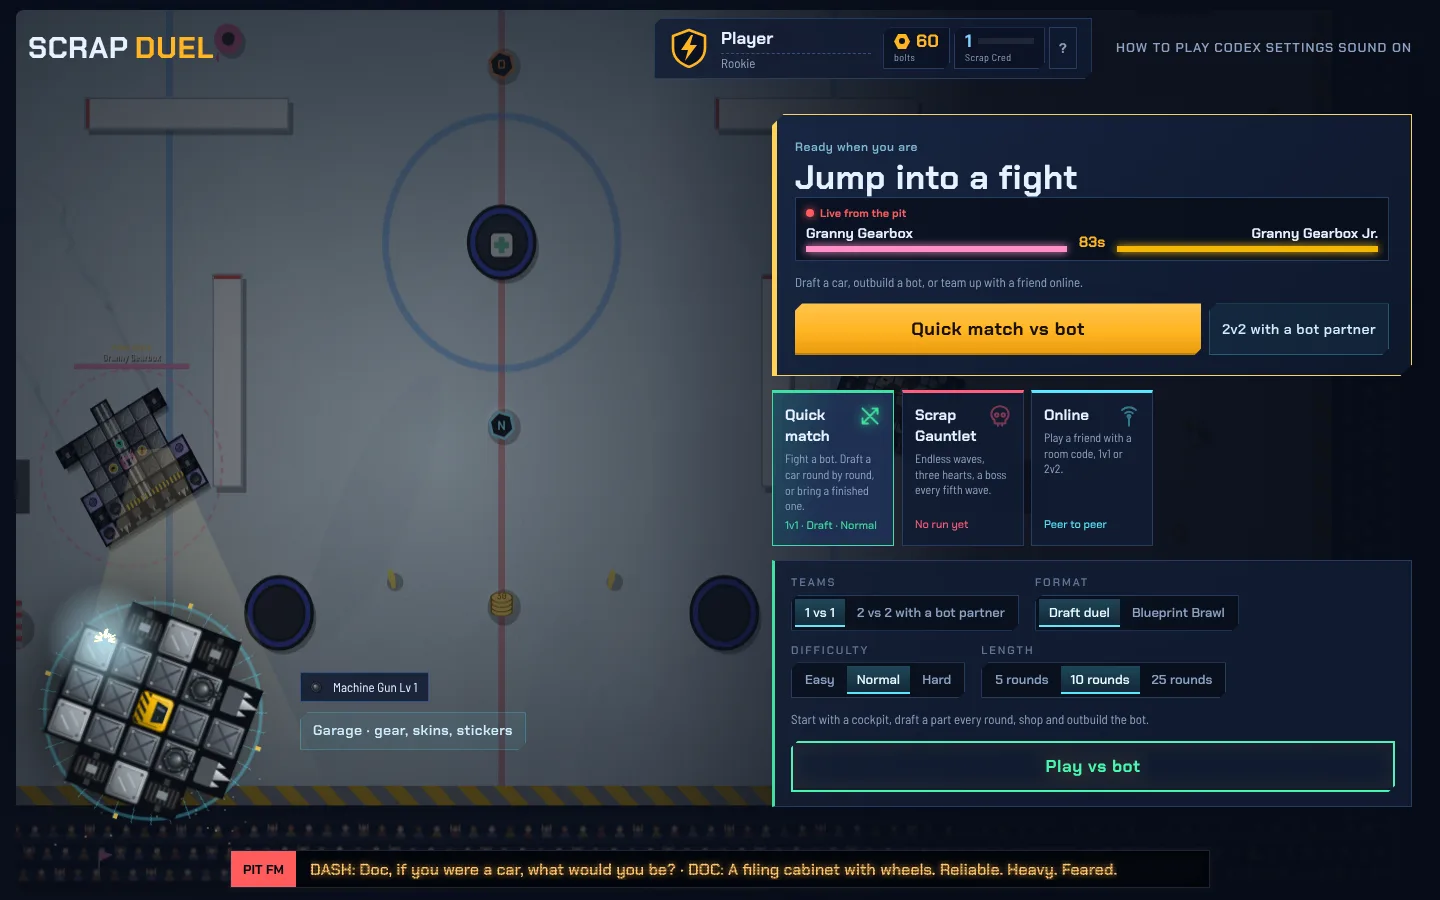
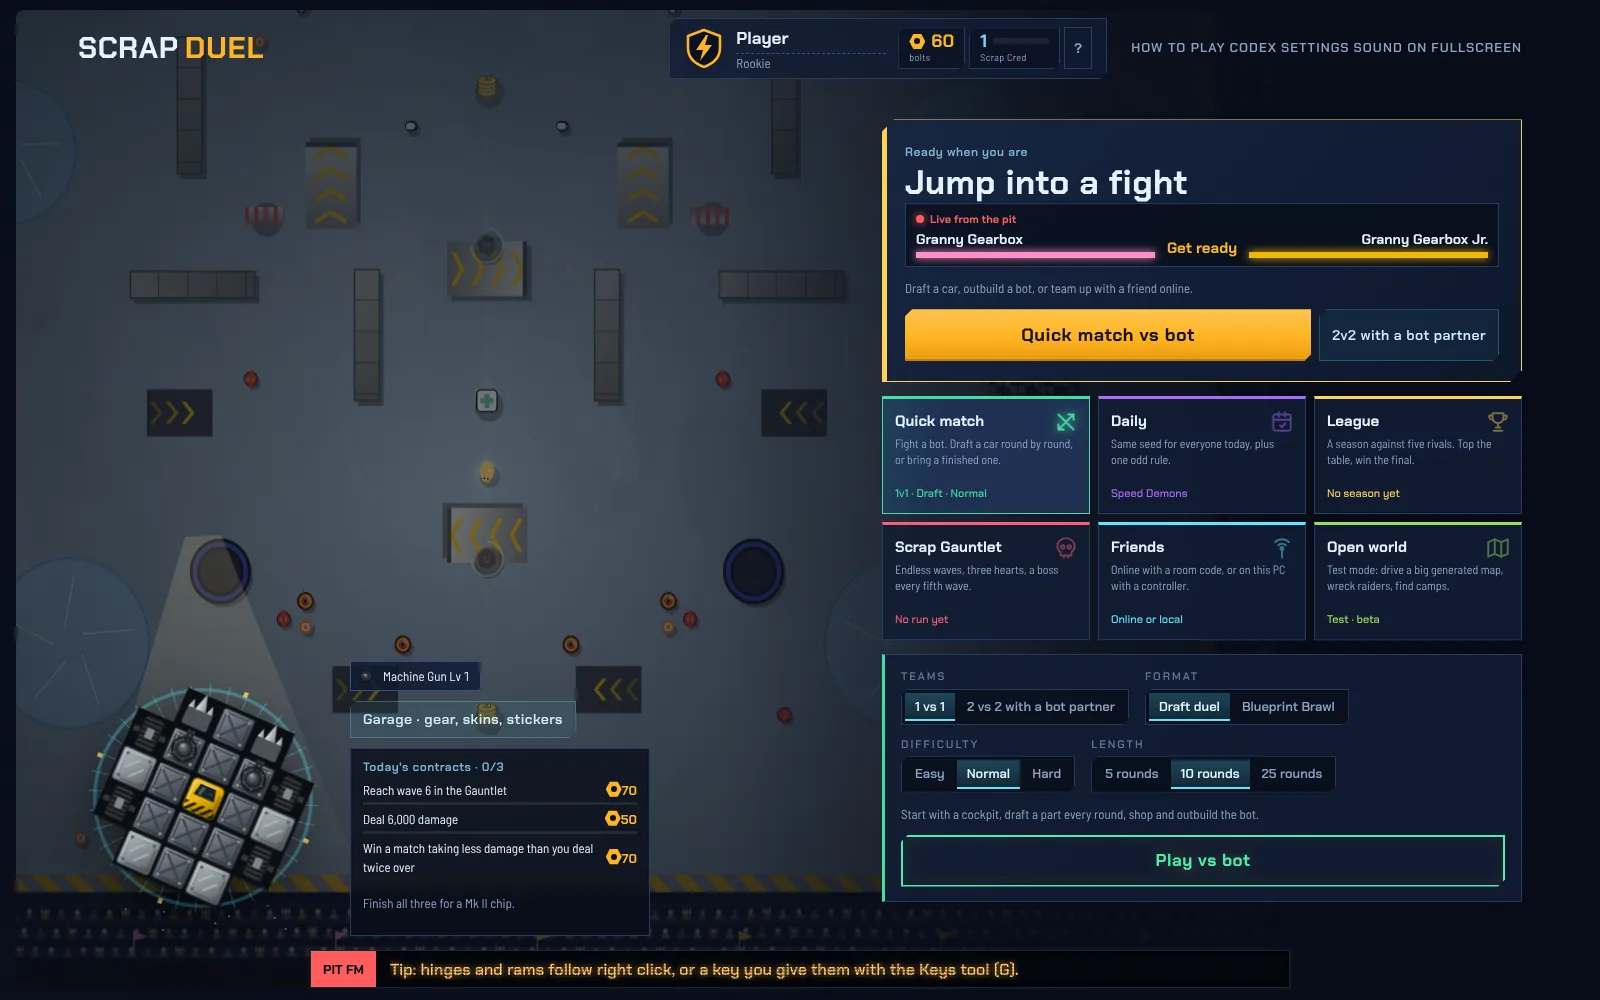
Website: open world section and screenshots, seven modes, assets load from a folder too; menu tile shows world progress
Claude-Session: https://claude.ai/code/session_01Wu6fysErEFwTaLUbbMP2sf

diff --git a/web/index.html b/web/index.html
@@ -11,31 +11,31 @@
     <meta name="theme-color" content="#0b1324" />
     <meta property="og:title" content="Scrap Duel" />
     <meta property="og:description" content="Build a battle car from scrap. Then wreck someone else's." />
-    <meta property="og:image" content="/img/battle.webp" />
-    <link rel="icon" href="/img/icon.svg" type="image/svg+xml" />
-    <link rel="preload" href="/fonts/chakra-petch-latin-700-normal.woff2" as="font" type="font/woff2" crossorigin />
+    <meta property="og:image" content="img/battle.webp" />
+    <link rel="icon" href="img/icon.svg" type="image/svg+xml" />
+    <link rel="preload" href="fonts/chakra-petch-latin-700-normal.woff2" as="font" type="font/woff2" crossorigin />
     <style>
       @font-face {
         font-family: 'Chakra Petch';
-        src: url('/fonts/chakra-petch-latin-700-normal.woff2') format('woff2');
+        src: url('fonts/chakra-petch-latin-700-normal.woff2') format('woff2');
         font-weight: 700;
         font-display: swap;
       }
       @font-face {
         font-family: 'Barlow Semi Condensed';
-        src: url('/fonts/barlow-semi-condensed-latin-400-normal.woff2') format('woff2');
+        src: url('fonts/barlow-semi-condensed-latin-400-normal.woff2') format('woff2');
         font-weight: 400;
         font-display: swap;
       }
       @font-face {
         font-family: 'Barlow Semi Condensed';
-        src: url('/fonts/barlow-semi-condensed-latin-500-normal.woff2') format('woff2');
+        src: url('fonts/barlow-semi-condensed-latin-500-normal.woff2') format('woff2');
         font-weight: 500;
         font-display: swap;
       }
       @font-face {
         font-family: 'Barlow Semi Condensed';
-        src: url('/fonts/barlow-semi-condensed-latin-600-normal.woff2') format('woff2');
+        src: url('fonts/barlow-semi-condensed-latin-600-normal.woff2') format('woff2');
         font-weight: 600;
         font-display: swap;
       }
@@ -443,6 +443,65 @@
         }
       }
 
+      /* open world */
+      .world .head {
+        max-width: 720px;
+      }
+      .world-grid {
+        display: grid;
+        grid-template-columns: minmax(0, 8fr) minmax(0, 4fr);
+        gap: 16px;
+      }
+      .world-grid .side {
+        display: grid;
+        gap: 16px;
+        align-content: start;
+      }
+      .world-grid .shot img {
+        width: 100%;
+        aspect-ratio: 16 / 10;
+        object-fit: cover;
+      }
+      .world-feats {
+        display: grid;
+        grid-template-columns: repeat(3, minmax(0, 1fr));
+        gap: 28px 40px;
+        margin: 48px 0 0;
+        padding: 0;
+        list-style: none;
+      }
+      .world-feats li {
+        border-top: 2px solid var(--line);
+        padding-top: 14px;
+        color: var(--steel);
+      }
+      .world-feats b {
+        display: block;
+        margin-bottom: 4px;
+        font: 700 20px/1.2 var(--display);
+        color: var(--paper);
+      }
+      .world-feats li:nth-child(-n + 3) {
+        border-top-color: var(--amber);
+      }
+      @media (max-width: 900px) {
+        .world-grid {
+          grid-template-columns: 1fr;
+        }
+        .world-grid .side {
+          grid-template-columns: 1fr 1fr;
+        }
+        .world-feats {
+          grid-template-columns: 1fr 1fr;
+        }
+      }
+      @media (max-width: 560px) {
+        .world-grid .side,
+        .world-feats {
+          grid-template-columns: 1fr;
+        }
+      }
+
       /* what's new */
       .news {
         display: grid;
@@ -606,8 +665,9 @@
   <body>
     <header class="top">
       <div class="wrap">
-        <a class="logo" href="#"><img src="/img/icon.svg" alt="" />SCRAP <b>DUEL</b></a>
+        <a class="logo" href="#"><img src="img/icon.svg" alt="" />SCRAP <b>DUEL</b></a>
         <nav aria-label="Sections">
+          <a href="#world">Open world</a>
           <a href="#how">How it plays</a>
           <a href="#modes">Modes</a>
           <a href="#new">What's new</a>
@@ -623,8 +683,8 @@
           <div>
             <h1>Build a battle car from scrap. Then wreck someone else's.</h1>
             <p class="lede">
-              Draft parts, bolt them onto a grid and drive what you made into a bot, a boss or a friend. Every round you
-              get new scrap and a chance to build something better.
+              Draft parts, bolt them onto a grid and drive what you made into a bot, a boss or a friend. Or take it out
+              into the open world and come back with a bootful of parts.
             </p>
             <div class="get">
               <a class="btn" href="{{SETUP_URL}}">
@@ -642,7 +702,7 @@
           <div>
             <div class="screen">
               <img
-                src="/img/battle.webp"
+                src="img/battle.webp"
                 width="1600"
                 height="1000"
                 alt="Two scrap cars fighting in a factory arena, with health bars and commentary"
@@ -653,6 +713,57 @@
       </div>
       <div class="hazard" role="presentation"></div>
 
+      <section id="world" class="world">
+        <div class="wrap">
+          <div class="head">
+            <h2>Then drive off the map</h2>
+            <p>
+              The open world stitches every arena into one huge map. Loot buildings for parts, rebuild your car at
+              camps, take jobs and wreck raiders, alone or with a friend. It saves where you left it.
+            </p>
+          </div>
+          <div class="world-grid">
+            <button class="shot" type="button" data-full="img/ow-night.webp">
+              <img
+                src="img/ow-night.webp"
+                loading="lazy"
+                width="1600"
+                height="1000"
+                alt="Night on the beach: headlights light up a raider camp around its fire"
+              />
+            </button>
+            <div class="side">
+              <button class="shot" type="button" data-full="img/ow-camp.webp">
+                <img
+                  src="img/ow-camp.webp"
+                  loading="lazy"
+                  width="1600"
+                  height="1000"
+                  alt="A camp's mission board and the list of camps you can travel to"
+                />
+              </button>
+              <button class="shot" type="button" data-full="img/ow-loot.webp">
+                <img
+                  src="img/ow-loot.webp"
+                  loading="lazy"
+                  width="1600"
+                  height="1000"
+                  alt="A looted building with rare parts glowing on the floor"
+                />
+              </button>
+            </div>
+          </div>
+          <ul class="world-feats">
+            <li><b>Loot</b>Break crates and safes in buildings. Parts hop out, rare ones send up a beam.</li>
+            <li><b>Field garage</b>At any camp, open the garage and rebuild with what you found.</li>
+            <li><b>Jobs</b>Deliveries, raider camps, road races and every fourth job a boss.</li>
+            <li><b>Raiders</b>Roaming gangs, armoured convoys and bounty hunters who come looking for you.</li>
+            <li><b>Day and night</b>At night more raiders are out and the crates hold better parts.</li>
+            <li><b>Co-op</b>Same map, same jobs, shared rewards: every find also drops a part for your friend.</li>
+          </ul>
+        </div>
+      </section>
+
       <section id="how">
         <div class="wrap">
           <div class="head">
@@ -661,9 +772,9 @@
           </div>
           <div class="flow">
             <figure>
-              <button class="shot" type="button" data-full="/img/draft.webp">
+              <button class="shot" type="button" data-full="img/draft.webp">
                 <img
-                  src="/img/draft.webp"
+                  src="img/draft.webp"
                   loading="lazy"
                   width="1600"
                   height="1000"
@@ -676,9 +787,9 @@
               </figcaption>
             </figure>
             <figure>
-              <button class="shot" type="button" data-full="/img/garage.webp">
+              <button class="shot" type="button" data-full="img/garage.webp">
                 <img
-                  src="/img/garage.webp"
+                  src="img/garage.webp"
                   loading="lazy"
                   width="1600"
                   height="1000"
@@ -691,9 +802,9 @@
               </figcaption>
             </figure>
             <figure>
-              <button class="shot" type="button" data-full="/img/battle-ice.webp">
+              <button class="shot" type="button" data-full="img/battle-ice.webp">
                 <img
-                  src="/img/battle-ice.webp"
+                  src="img/battle-ice.webp"
                   loading="lazy"
                   width="1600"
                   height="1000"
@@ -714,8 +825,8 @@
       <section id="modes">
         <div class="wrap">
           <div class="head">
-            <h2>Six ways to play</h2>
-            <p>Everything except online Friends matches works without an internet connection.</p>
+            <h2>Seven ways to play</h2>
+            <p>Everything except online matches works without an internet connection.</p>
           </div>
           <div class="modes">
             <ul class="modelist">
@@ -759,28 +870,34 @@
                 >
               </li>
               <li>
+                <b>Open world</b>
+                <span
+                  >One huge map to explore with loot, camps, jobs, raiders and bosses. Saves as you go.<em class="tag"
+                    >Alone or co-op</em
+                  ></span
+                >
+              </li>
+              <li>
                 <b>Friends</b>
                 <span
-                  >Online with a 4-letter room code (1v1 or 2v2), or a local duel on one PC with a controller.<em
-                    class="tag"
-                    >Online or couch</em
-                  ></span
+                  >Online with a 4-letter room code (1v1, 2v2 or the open world together), or a local duel on one PC
+                  with a controller.<em class="tag">Online or couch</em></span
                 >
               </li>
             </ul>
             <figure style="margin: 0">
-              <button class="shot" type="button" data-full="/img/team-battle.webp">
+              <button class="shot" type="button" data-full="img/team-battle.webp">
                 <img
-                  src="/img/team-battle.webp"
+                  src="img/team-battle.webp"
                   loading="lazy"
                   width="1600"
                   height="1000"
                   alt="A 2v2 battle on the ice rink: you and a bot partner against two bots"
                 />
               </button>
-              <button class="shot" type="button" data-full="/img/menu.webp" style="margin-top: 16px">
+              <button class="shot" type="button" data-full="img/menu.webp" style="margin-top: 16px">
                 <img
-                  src="/img/menu.webp"
+                  src="img/menu.webp"
                   loading="lazy"
                   width="1600"
                   height="1000"
@@ -800,9 +917,9 @@
       <section id="garage">
         <div class="wrap garage">
           <div>
-            <button class="shot" type="button" data-full="/img/garage-hq.webp">
+            <button class="shot" type="button" data-full="img/garage-hq.webp">
               <img
-                src="/img/garage-hq.webp"
+                src="img/garage-hq.webp"
                 loading="lazy"
                 width="1600"
                 height="1000"

diff --git a/src/js/ui/menu.js b/src/js/ui/menu.js
@@ -15,7 +15,7 @@ const MENU_MODES = [
     id: 'world',
     name: 'Open world',
     col: '#9be15d',
-    line: 'Test mode: drive a big generated map, wreck raiders, find camps.'
+    line: 'A huge map to explore: loot buildings, take missions, wreck raiders. Alone or with a friend.'
   }
 ];
 const TAGLINES = [
@@ -89,7 +89,10 @@ function showMenu() {
     lo = GEAR.loadout.map(gearById).filter(Boolean);
   const stat = id =>
     id === 'world'
-      ? 'Test · beta'
+      ? (sv =>
+          sv
+            ? `${sv.done} missions · ${Object.values(sv.inv).reduce((a, b) => a + b, 0)} parts`
+            : 'New · alone or co-op')(owSaved())
       : id === 'run'
         ? runBest()
           ? `Best: wave ${runBest()}`
@@ -268,7 +271,7 @@ function menuOpts() {
       'rt'
     )}</div>${G.runTeams === 2 ? `<div class="hg-o"><span class="mlab">Your partner</span>${seg('partnerSeg', PARTNER_STYLES, G.partnerStyle, 'p')}</div>` : ''}<p class="small">Survive as long as you can. Hearts carry over; relics stack. Your loadout gear comes along.${G.runTeams === 2 ? ' With a partner, every wave brings two rivals.' : ''}</p><button class="btn hg-go2" id="mPlay">Start a run</button>`,
     world:
-      (sv => `<p class="small">Test mode: one big map built from every arena. Loot buildings for parts, rebuild your car at camps, take missions, wreck raiders and bosses. To play together: Friends → Host a room → Open world.</p>
+      (sv => `<p class="small">One big map built from every arena, with day and night. Loot buildings for parts, rebuild your car at camps, take missions, wreck raiders and bosses. To play together: Friends → Host a room → Open world.</p>
       ${owCarPicker('owCar')}
       <div class="mrow">${sv ? `<button class="btn hg-go2" id="owCont">Continue · ${sv.done} missions, ${Object.values(sv.inv).reduce((a, b) => a + b, 0)} parts</button>` : ''}<button class="btn ${sv ? 'ghost' : 'hg-go2'}" id="owPlay">${sv ? 'New world' : 'Enter the open world'}</button></div>`)(
         owSaved()
@@ -431,7 +434,7 @@ const LOBBY_PRESETS = [
   {
     id: 'world',
     name: 'Open world',
-    line: 'Explore together: loot buildings, take missions, wreck raiders. (test)',
+    line: 'Explore together: loot buildings, take missions, wreck raiders.',
     world: true
   }
 ];

diff --git a/src/js/game/world.js b/src/js/game/world.js
@@ -1,4 +1,4 @@
-// Open world (test mode): one big generated map made of the arena themes.
+// Open world: one big generated map made of the arena themes.
 // The world is cut into 1000×1000 chunks. A chunk is generated from the world seed the first time you come
 // near it (props, ruins, ramps, pickups, its own ground picture) and parked again when you drive away, so only
 // the area around you is simulated. Biomes are Voronoi regions: cold in the north, hot in the south, towns
